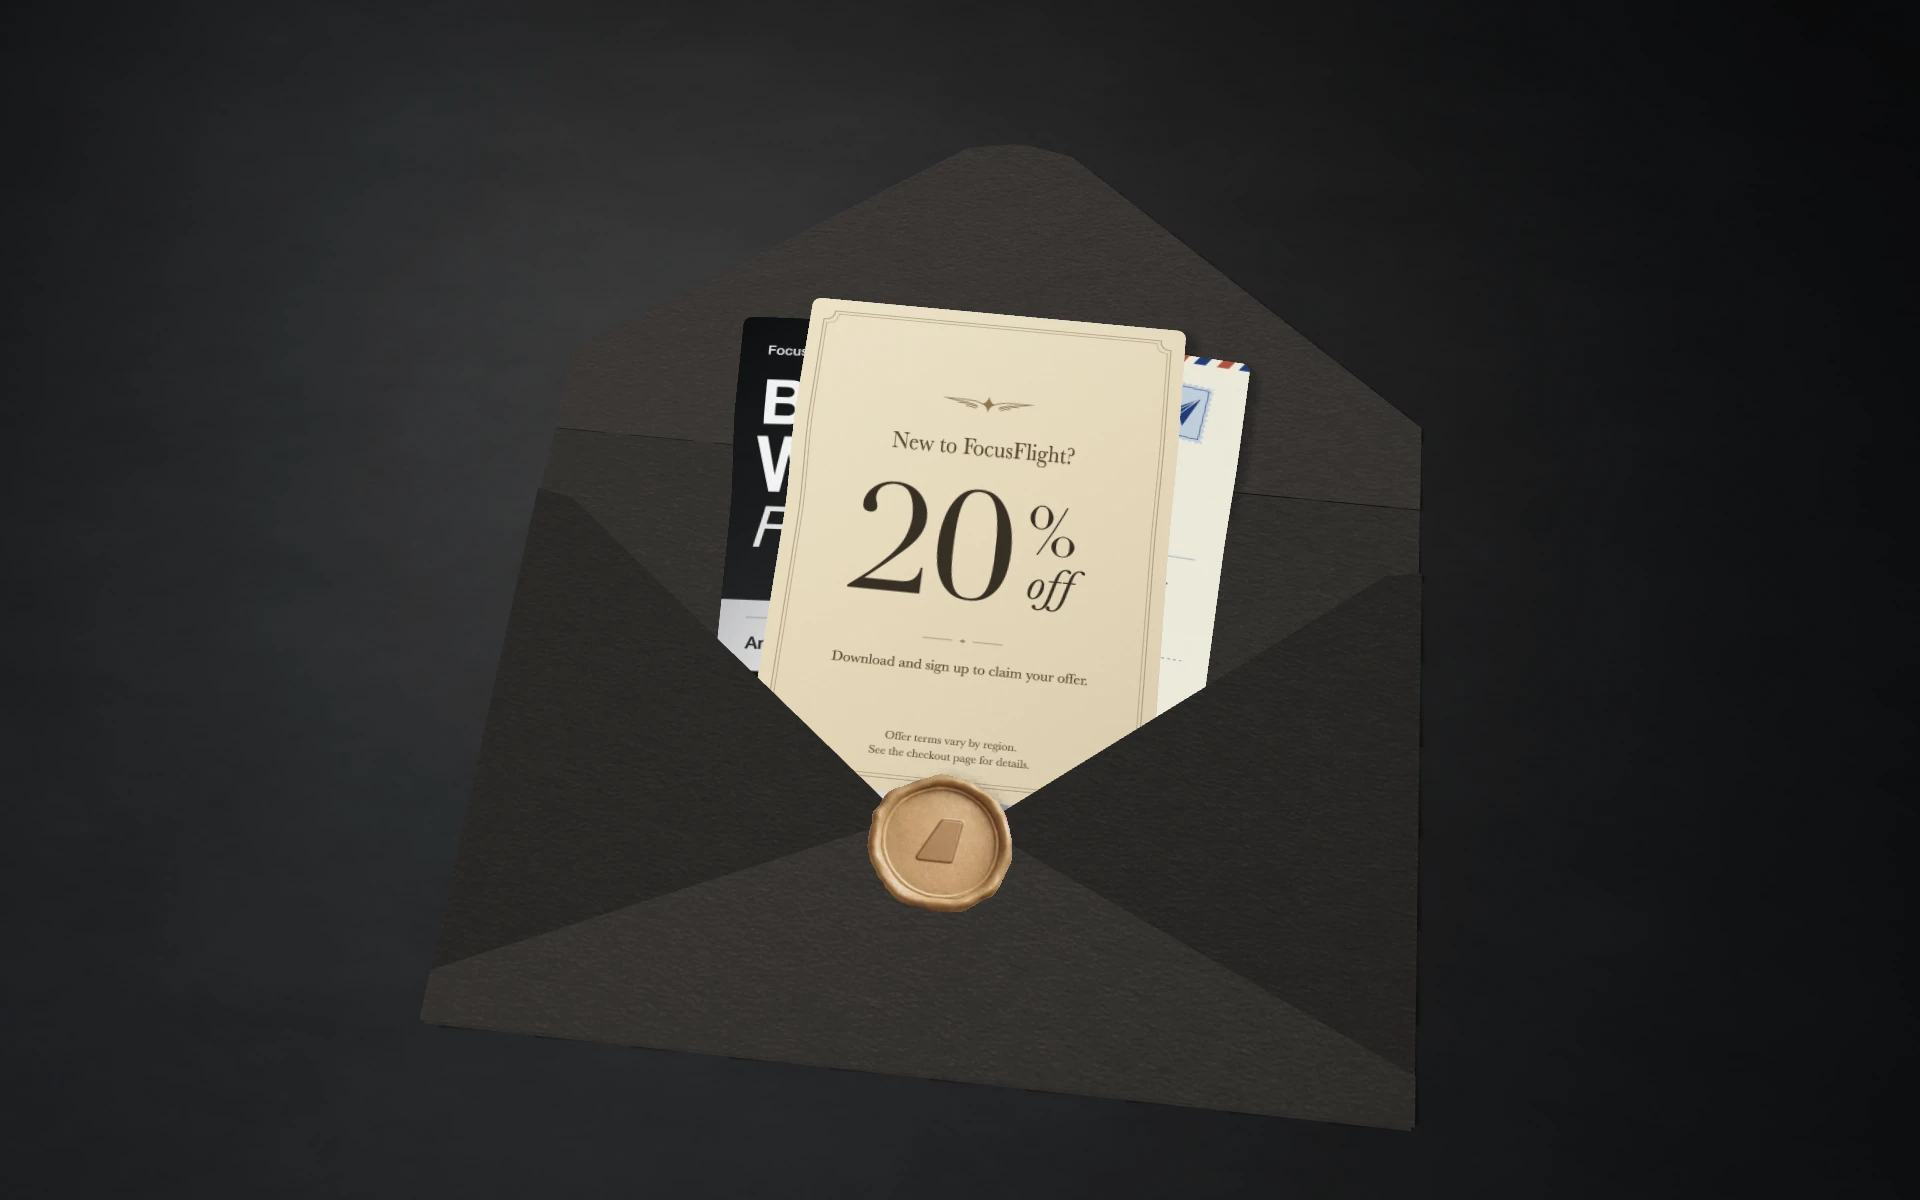
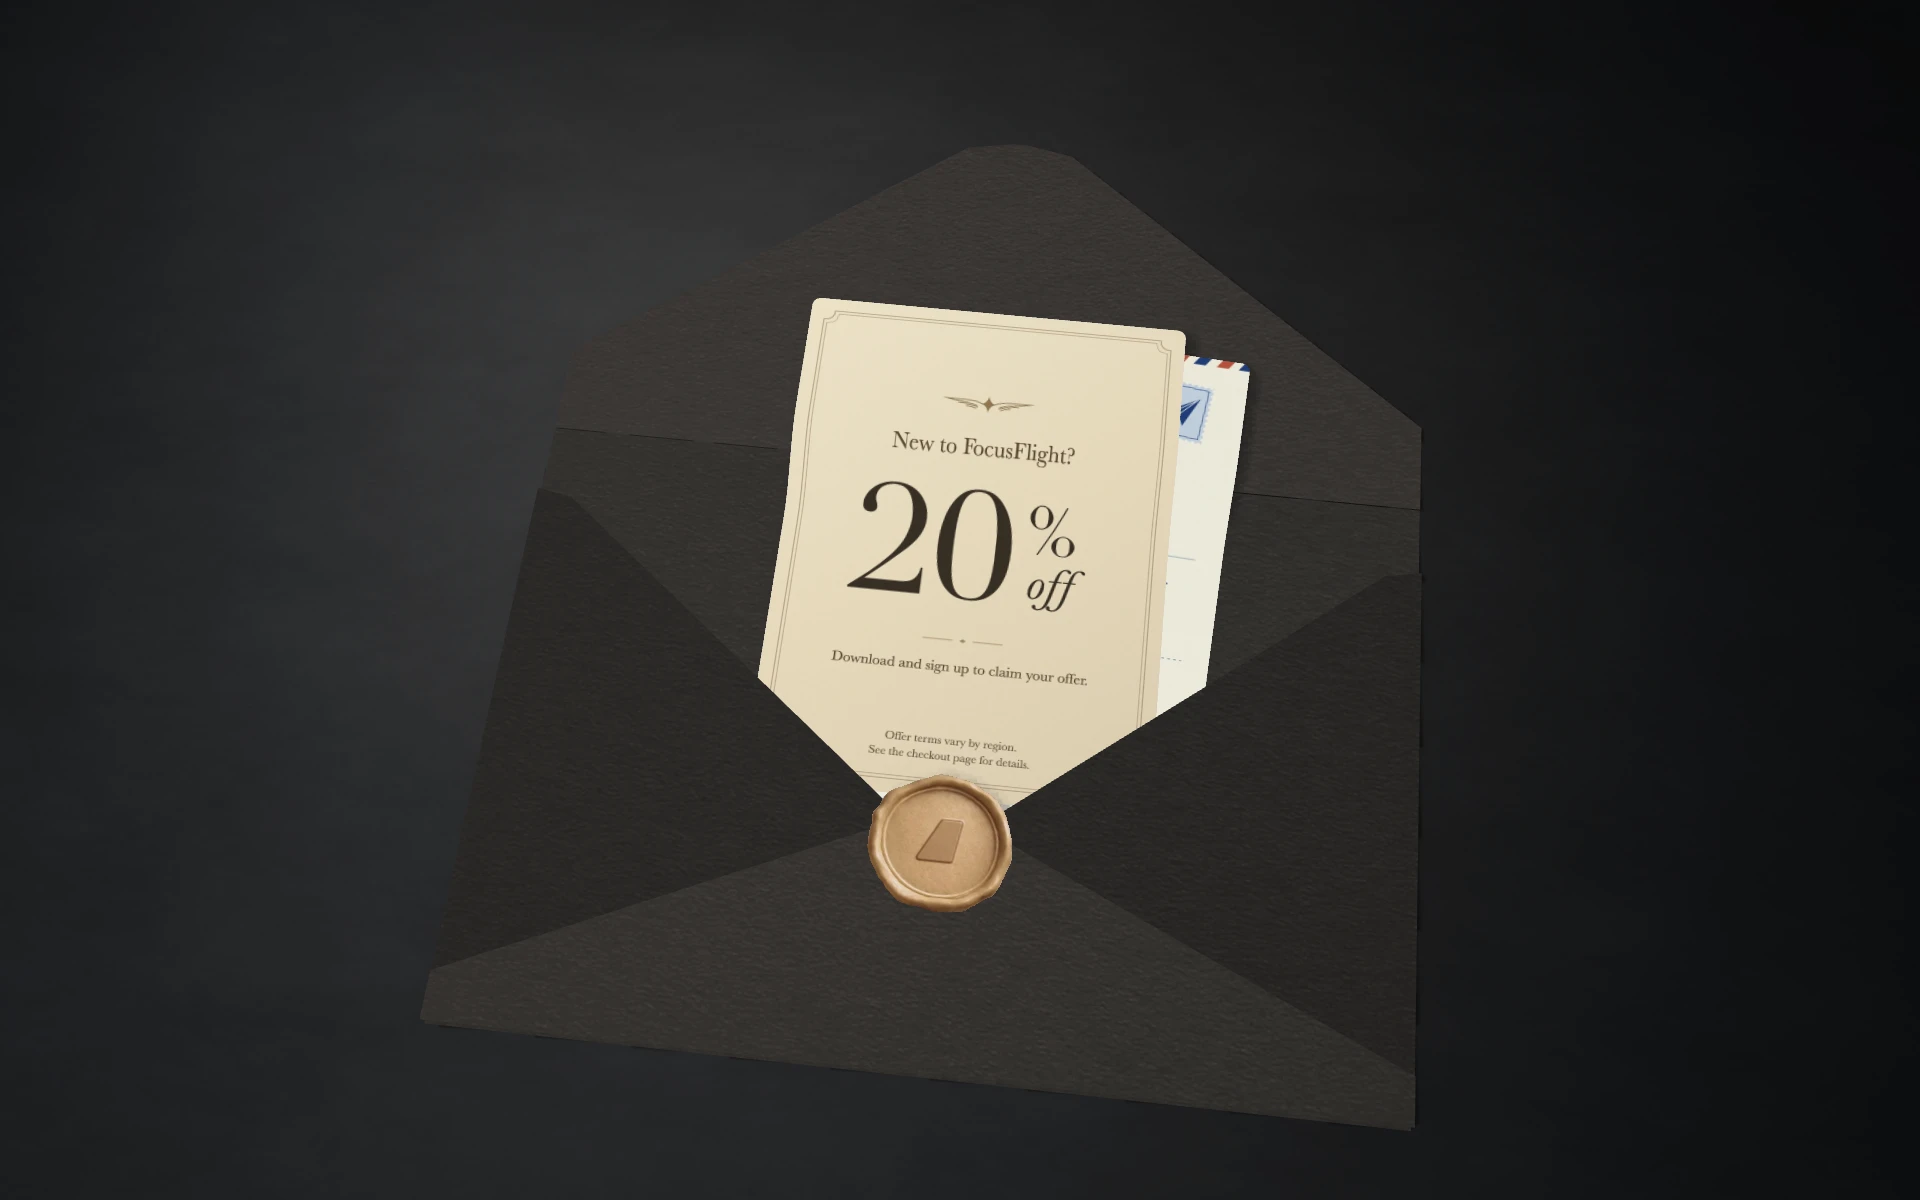
fix: 暂时隐藏黑五活动

Changed region(s): [[0.375, 0.2467, 0.4375, 0.555]]

diff --git a/index.html b/index.html
@@ -376,9 +376,9 @@
   <script src="/button-motion.js?v=aqua-nav" type="module"></script>
   <link rel="stylesheet" href="/deep-focus.css?v=short-landscape">
   <link rel="stylesheet" href="/download.css?v=download-count">
-  <link rel="stylesheet" href="/gift.css?v=english-cards">
+  <link rel="stylesheet" href="/gift.css?v=hidden-black-week">
   <link rel="stylesheet" href="/mobile.css" media="(max-width: 520px)">
-  <script src="/sky.js?v=device-scroll" type="module"></script>
+  <script src="/sky.js?v=hidden-black-week" type="module"></script>
   <script src="/showcase.js?v=frame-handoff" type="module"></script>
 </head>
 <body>
@@ -665,8 +665,8 @@
     <section class="gift" id="gift" aria-label="Gift" tabindex="-1">
       <div class="gift-night">
         <picture class="gift-studio">
-          <source media="(max-aspect-ratio: 4/5)" srcset="/gift/studio-portrait.webp?v=english-cards" width="828" height="1792">
-          <img src="/gift/studio.webp?v=english-cards" alt="An envelope with three offer cards" width="1920" height="1200" decoding="async" loading="lazy">
+          <source media="(max-aspect-ratio: 4/5)" srcset="/gift/studio-portrait.webp?v=hidden-black-week" width="828" height="1792">
+          <img src="/gift/studio.webp?v=hidden-black-week" alt="An envelope with offer cards" width="1920" height="1200" decoding="async" loading="lazy">
         </picture>
         <div class="gift-letter-poster" aria-hidden="true"></div>
         <picture class="runway-poster" aria-hidden="true">
@@ -684,7 +684,7 @@
         <p class="gift-details">Offer terms vary by region — see the checkout page for details.</p>
       </div>
     </section>
-    <section class="gift-letter" id="black-week" aria-labelledby="black-week-title" tabindex="-1" inert>
+    <section class="gift-letter" id="black-week" hidden aria-labelledby="black-week-title" tabindex="-1" inert>
       <button class="gift-print black-week-print" type="button" aria-haspopup="dialog" aria-controls="gift-reader" aria-label="Enlarge the Black Week Flight card"></button>
       <div class="gift-copy">
         <h2 id="black-week-title">Black Week Flight</h2>

diff --git a/sky.js b/sky.js
@@ -1,4 +1,4 @@
-import { setupGiftDescent } from "./gift.js?v=english-cards";
+import { setupGiftDescent } from "./gift.js?v=hidden-black-week";
 import { setupWindowFlight } from "./window-flight.js?v=sky-meteor";
 import { setupPortholeSky } from "./porthole/sky.js?v=compact-noise";
 import { setupWindowShade } from "./porthole/shade.js?v=static-porthole";
@@ -238,7 +238,7 @@ const setCamera = setupPortholeSky(deepFocus.querySelector(".porthole-frame"));
 const download = document.getElementById("download");
 const windowFlight = setupWindowFlight(deepFocus, download, ease, setCamera);
 const gift = document.getElementById("gift");
-const campaignSlides = [...document.querySelectorAll(".gift-letter")];
+const campaignSlides = [...document.querySelectorAll(".gift-letter:not([hidden])")];
 const runway = document.getElementById("runway");
 const sections = [sky, showcase, deepFocus, download, gift, ...campaignSlides, runway];
 const showcasePage = sections.indexOf(showcase);

diff --git a/gift/invitation.js b/gift/invitation.js
@@ -196,7 +196,8 @@ export function prepareInvitation(gl, program, project, shadows, studioAir, atla
   }
   // Welcome on top, brushed silver and airmail stock just behind its edges.
   strips(cardRows,7,.013,[1372,4,672,896],insert,12);
-  strips(cardRows,6,.021,[688,4,672,896],insert,12);
+  // Black Week is temporarily hidden. Restore this sheet with its campaign slide.
+  // strips(cardRows,6,.021,[688,4,672,896],insert,12);
   strips(cardRows,2,.029,[4,4,672,896],insert,12);
   for(const side of [-1,1]) {
     polygon([[side*1.24,-.865],[side*1.24,.65],[side*1.14,.63],[0,-.29]],1,.039);

diff --git a/gift.css b/gift.css
@@ -85,6 +85,7 @@
     radial-gradient(ellipse at 38% 24%, #303237, transparent 54%),
     radial-gradient(ellipse at 55% 62%, #22272d, transparent 68%), #080c13;
 }
+.gift-letter[hidden] { display: none; }
 .gift-letter {
   --gift-top: var(--phone-top, calc(var(--header-top) + var(--header-height) + 12px));
   --gift-bottom: var(--phone-bottom, max(20px, env(safe-area-inset-bottom)));

diff --git a/gift.js b/gift.js
@@ -1,4 +1,4 @@
-import { setupStudio, framingOffset } from "./gift/camera.js?v=english-cards";
+import { setupStudio, framingOffset } from "./gift/camera.js?v=hidden-black-week";
 import { prepareCopy } from "./motion-copy.js";
 
 export function setupGiftDescent(download, gift, slides, runway, windowFlight, ease, cameraTravel) {

diff --git a/gift/camera.js b/gift/camera.js
@@ -1,5 +1,5 @@
 import { getHardwareContext } from "../hardware-gl.js";
-import { prepareInvitation } from "./invitation.js?v=gift-sheet";
+import { prepareInvitation } from "./invitation.js?v=hidden-black-week";
 
 const project = `
   uniform vec3 eye, right, up, forward;
